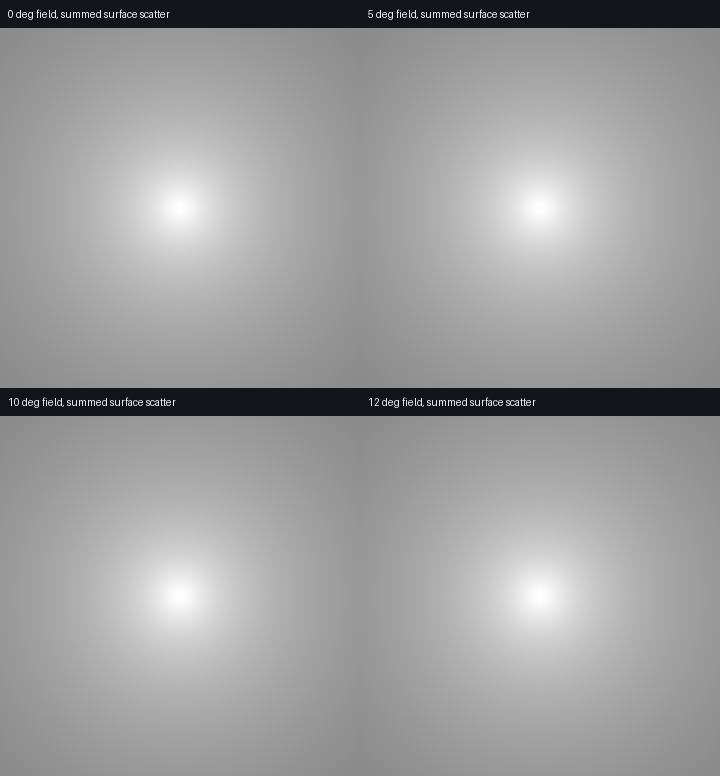
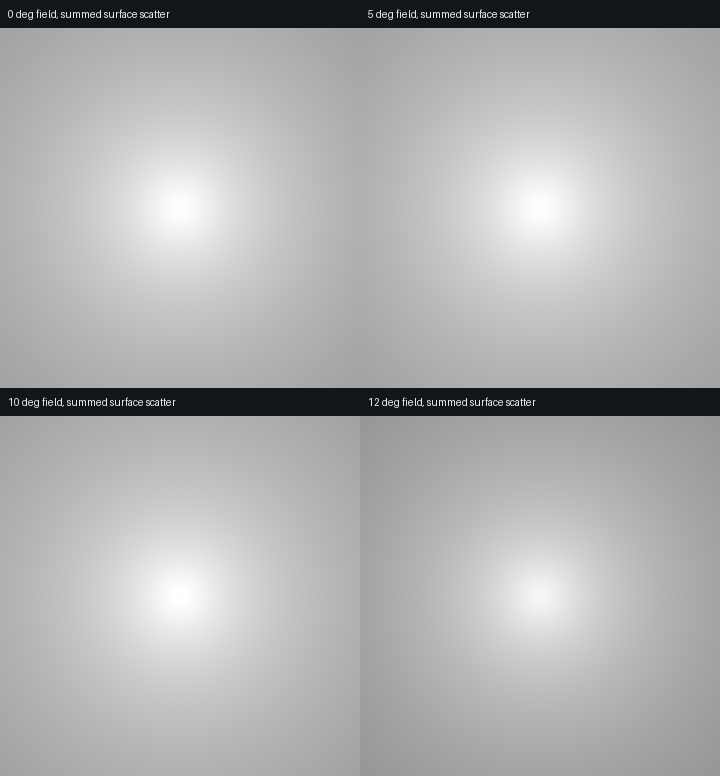
Use Peterson per-surface scatter equation

diff --git a/tools/LensFlareLab/evaluate_prescription_surface_scatter.py b/tools/LensFlareLab/evaluate_prescription_surface_scatter.py
@@ -14,7 +14,6 @@ import numpy as np
 from PIL import Image, ImageDraw
 
 import evaluate_direct_transmission_raytrace as raytrace
-from evaluate_harvey_scatter_reference import bsdf, calculate_tis
 
 
 def surface_bundle(field_deg, wavelength_nm, grid_size):
@@ -104,31 +103,29 @@ def make_plate(cases, path):
     image.save(path)
 
 
-def make_scatter_plate(cases, path, pitch_um, focal_mm, slope, b, l_mrad, subpixels):
-    """Render the simple summed surface kernels for qualitative field comparison."""
+def make_scatter_plate(cases, path, pitch_um, focal_mm, slope, b, l_mrad,
+                       transmission, na):
+    """Render the Peterson per-surface irradiance model with traced cone radii."""
     size = 720
     pitch_mm = pitch_um * 1e-3
     axis = (np.arange(size) + .5 - size / 2) * pitch_mm
     xx, yy = np.meshgrid(axis, axis)
     rho = np.hypot(xx, yy)
-    cos_theta = focal_mm / np.hypot(focal_mm, rho)
-    sin_theta = rho / np.hypot(focal_mm, rho)
     images = []
-    tis, _ = calculate_tis(slope, b, l_mrad * 1e-3,
-                           b * (100 * l_mrad * 1e-3) ** slope)
+    b0 = b * (100.0 * l_mrad * 1e-3) ** slope
     for case in cases:
         acc = np.zeros((size, size), dtype=np.float64)
-        # Each surface contributes one equal-weight scatter event here; this
-        # deliberately isolates the pupil-cone geometry from unknown coatings.
+        a_ent = case["rows"][0][3]
+        field_transmission = transmission * case["accepted"] / case["launched"]
         for row in case["rows"]:
-            radius_mm = row[3]
-            if not math.isfinite(radius_mm) or radius_mm <= 1e-8:
+            a_j = row[3]
+            if not math.isfinite(a_j) or a_j <= 1e-8:
                 continue
-            corner = l_mrad * 1e-3 * math.sqrt(max(radius_mm, 1e-6) /
-                                                max(case["rows"][0][3], 1e-6))
-            amp = b * (100 * corner) ** slope
-            angular = bsdf(np.arctan2(sin_theta, cos_theta), slope, amp, corner)
-            acc += angular * cos_theta**3 / focal_mm**2 / max(tis, 1e-12)
+            # Peterson Eq. 8. r is sensor-plane distance; a_ent/a_j are the
+            # traced 90%-energy pupil-cone radii (an operational proxy).
+            scatter_angle = na * rho / (l_mrad * 1e-3 * a_j)
+            acc += (math.pi * field_transmission * na**2 * (a_ent / a_j) ** 2 * b0 *
+                    (1.0 + scatter_angle**2) ** (slope * .5))
         images.append(acc)
     maximum = max(float(im.max()) for im in images)
     panel = 360
@@ -156,6 +153,10 @@ def main():
     parser.add_argument("--slope", type=float, default=-1.86)
     parser.add_argument("--b", type=float, default=.36)
     parser.add_argument("--l-mrad", type=float, default=2.04)
+    parser.add_argument("--transmission", type=float, default=.8,
+                        help="post-scatter system transmission assumption (0..1)")
+    parser.add_argument("--na", type=float, default=1.0 / 44.0,
+                        help="image-side numerical aperture; default is f/22")
     parser.add_argument("--csv", type=Path, default=Path(
         "tools/LensFlareLab/examples/prescription-surface-scatter.csv"))
     parser.add_argument("--image", type=Path, default=Path(
@@ -163,30 +164,42 @@ def main():
     parser.add_argument("--scatter-image", type=Path, default=Path(
         "tools/LensFlareLab/examples/prescription-surface-scatter-fields.png"))
     args = parser.parse_args()
-    if args.grid < 4 or args.grid > 256 or args.wavelength_nm <= 0 or args.l_mrad <= 0:
-        parser.error("grid must be 4..256; wavelength and L must be positive")
+    if (args.grid < 4 or args.grid > 256 or args.wavelength_nm <= 0 or
+            args.l_mrad <= 0 or args.transmission < 0 or args.transmission > 1 or
+            args.na <= 0 or args.na >= 1 or args.b <= 0 or args.slope >= 0):
+        parser.error("grid/wavelength/L/b/NA must be positive, slope negative, and T in 0..1")
     cases = []
     for field in args.fields:
         accepted, rows = surface_bundle(field, args.wavelength_nm, args.grid)
-        cases.append({"field_deg": field, "accepted": accepted, "rows": rows})
+        cases.append({"field_deg": field, "accepted": accepted,
+                      "launched": args.grid**2, "rows": rows})
     args.csv.parent.mkdir(parents=True, exist_ok=True)
     with args.csv.open("w", newline="", encoding="utf-8") as handle:
         writer = csv.writer(handle)
         writer.writerow(("field_deg", "accepted_full_path_rays", "surface_index",
                          "surface_ray_count", "bundle_radius_r50_mm", "bundle_radius_r90_mm",
-                         "bundle_radius_r99_mm", "bundle_radius_rms_mm"))
+                         "bundle_radius_r99_mm", "bundle_radius_rms_mm",
+                         "peterson_eq8_center_coefficient"))
         for case in cases:
+            a_ent = case["rows"][0][3]
+            t_field = args.transmission * case["accepted"] / case["launched"]
+            b0 = args.b * (100.0 * args.l_mrad * 1e-3) ** args.slope
             for row in case["rows"]:
-                writer.writerow((case["field_deg"], case["accepted"], *row))
+                a_j = row[3]
+                center_coefficient = (math.pi * t_field * args.na**2 *
+                    (a_ent / a_j) ** 2 * b0) if math.isfinite(a_j) and a_j > 1e-8 else math.nan
+                writer.writerow((case["field_deg"], case["accepted"], *row,
+                                 f"{center_coefficient:.12g}"))
     make_plate(cases, args.image)
     make_scatter_plate(cases, args.scatter_image, 5.5, 100.0, args.slope,
-                       args.b, args.l_mrad, 4)
+                       args.b, args.l_mrad, args.transmission, args.na)
     for case in cases:
         print(f"field={case['field_deg']:g} deg accepted={case['accepted']}/{args.grid**2} "
               f"surface-0 r90={case['rows'][0][3]:.4f} mm "
               f"surface-13 r90={case['rows'][-1][3]:.4f} mm")
-    print("Scatter image uses equal per-surface event weights; no calibrated coating, "
-          "contamination, or surface-specific TIS data are available.")
+    print(f"Scatter image uses Peterson Eq. 8 with B={args.b:g}, S={args.slope:g}, "
+          f"L={args.l_mrad:g} mrad, NA={args.na:g}, T={args.transmission:g}; "
+          "surface a_j is traced r90 and calibrated per-surface BSDF/TIS is unavailable.")
 
 
 if __name__ == "__main__":

diff --git a/tools/LensFlareLab/EVALUATION.md b/tools/LensFlareLab/EVALUATION.md
@@ -6,31 +6,39 @@
 
 `evaluate_prescription_surface_scatter.py` traces a regular pupil bundle
 through all 14 prescription surfaces at 550 nm and reports the accepted full
-path ray count and per-surface r50/r90/r99/RMS bundle radius. With a 32x32
-sample, the accepted rays were 1024/1024 at 0, 5, and 10 degrees, and 592/1024
-(57.8%) at 12 degrees. The surface-0 r90 stayed near 5.04 mm, while surface-13
-r90 decreased from 2.824 mm on axis to 2.426 mm at 12 degrees. This confirms
+path ray count and per-surface r50/r90/r99/RMS bundle radius. With a 64x64
+sample, the accepted rays were 4096/4096 at 0, 5, and 10 degrees, and 2362/4096
+(57.7%) at 12 degrees. The surface-0 r90 stayed near 5.06 mm, while surface-13
+r90 decreased from 2.841 mm on axis to 2.413 mm at 12 degrees. This confirms
 that a single invariant pupil-radius parameter cannot represent all surfaces
-and fields in this prescription.
+and fields in this prescription. Increasing the grid from 32² to 64² moved the
+reported surface-13 r90 by less than 0.6% at both 0 and 12 degrees.
 
 ![Per-surface pupil bundle radii at four field angles](examples/prescription-surface-bundle-radii.png)
 
-The companion image sums equal-weight Harvey-Shack kernels using the traced
-surface-cone radii, and is useful only for checking the expected broad halo
-shape and field trend. It is not a physical exposure prediction: the source
-model does not include transmission-weighted scattering, measured roughness or
-surface TIS, vignetting weights within each scattering cone, aberration, sensor
-response, or measured stray-light references. In particular, equal event
-weights across all 14 surfaces are an explicit visualization assumption, not
-an inferred property of the lens. The generic Harvey coefficients come from
-Ritt et al.'s generic Double-Gauss example and should not be mistaken for data
-from the Angenieux prescription.
+The companion image uses Peterson's per-surface focal-plane irradiance equation
+(Eq. 8), with `a_j` approximated by the traced r90 beam radius and field
+throughput approximated by the full-path acceptance fraction. The reference
+uses f/22, 80% post-scatter system transmission, and generic Harvey parameters
+from Ritt et al.'s generic Double-Gauss example; none are measured properties
+of the bundled Angenieux prescription. The equation predicts how each surface's
+cone radius changes the scatter amplitude and radial falloff, so the surfaces
+are no longer assigned equal weights. See [Ritt et al. (2020)](https://www.mdpi.com/1424-8220/20/21/6308).
+
+This remains an exploratory image, not a calibrated exposure prediction. It
+does not include per-surface measured BSDF/TIS, actual coating scatter,
+contamination, full post-scatter ray clipping, aberration, sensor response, or
+measured stray-light references. The scalar throughput proxy and r90 beam
+radius require validation against a non-sequential optical model or measured
+PSF before the image can support production settings.
 
 ![Exploratory summed surface-scatter comparison by field](examples/prescription-surface-scatter-fields.png)
 
 Reproduce the study with `python tools/LensFlareLab/evaluate_prescription_surface_scatter.py
---grid 32`. Increase `--grid` to check pupil sampling convergence before using
-these radii as inputs to a future per-surface render model.
+--grid 64`. The image uses the generic Harvey parameters `S=-1.86`, `B=0.36`
+and `L=2.04 mrad`; `--transmission` and `--na` control the stated system
+assumptions. Increase `--grid` to check pupil sampling convergence before
+using these radii as inputs to a future per-surface render model.
 
 ## Prescription-based direct-transmission geometric image evaluation
 

diff --git a/tools/LensFlareLab/README.md b/tools/LensFlareLab/README.md
@@ -259,11 +259,14 @@ radial profiles and a 4×4 versus 8×8 pixel-integration comparison. It is a
 separate scatter reference, not a full prescription flare kernel.
 `evaluate_prescription_surface_scatter.py` traces pupil bundles through every
 prescription surface at 0/5/10/12-degree fields and writes per-surface r50/r90/
-r99/RMS radii plus comparison plates. Its image plate sums equal-weight
-Harvey-Shack surface kernels to visualize cone-size effects; it is exploratory
-because the prescription has no measured surface roughness, TIS, contamination,
-or coating scatter data. It is not used by the C++ renderer and is not a
-calibrated flare prediction.
+r99/RMS radii plus comparison plates. Its image plate sums per-surface
+contributions from Peterson's analytic focal-plane scatter equation,
+using each traced r90 as a beam-radius proxy and overall bundle acceptance as a
+field-throughput proxy. Defaults assume f/22, 80% post-scatter transmission,
+and generic Double-Gauss Harvey coefficients. This remains exploratory because
+the prescription has no measured surface roughness, per-surface BSDF/TIS,
+contamination, or coating scatter data. It is not used by the C++ renderer and
+is not a calibrated flare prediction.
 `evaluate_diffraction_supersampled_reference.py` compares both resamplers with
 an independent 4096² pupil FFT and 9× sensor-pixel integration reference.
 Pixel-phase evaluation requires Pillow; the supersampled reference requires
